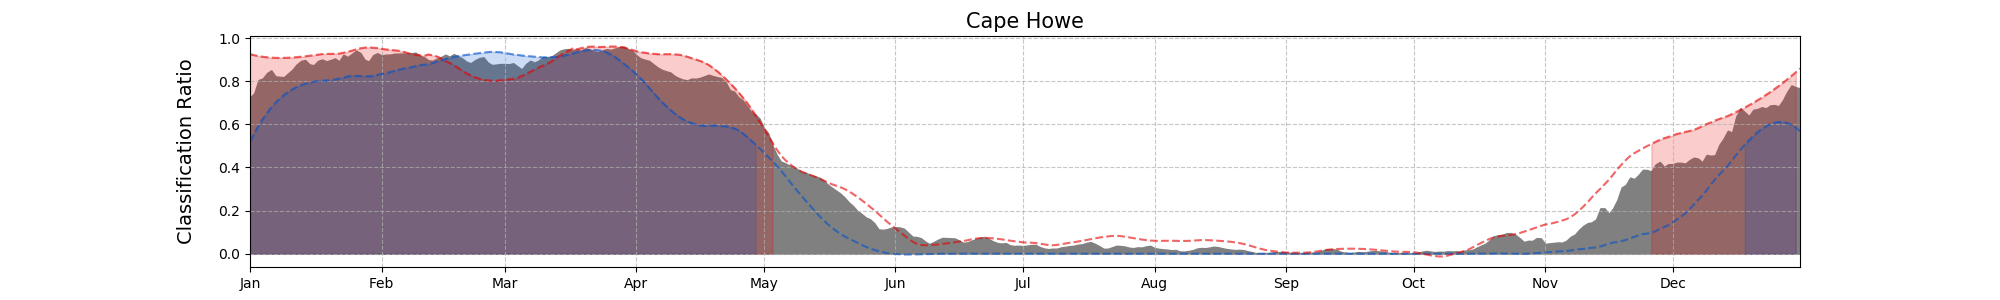
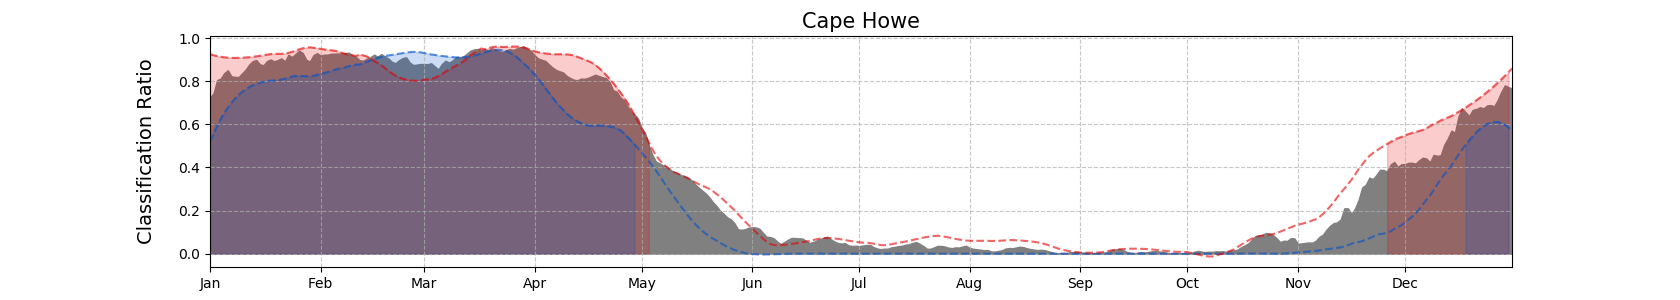
Added rstats for paper and chnaged temporal anaysis

diff --git a/data_visulisation.py b/data_visulisation.py
@@ -13,6 +13,7 @@ from netCDF4 import Dataset
 from scipy import stats
 import seaborn as sns
 from scipy.signal import savgol_filter
+from sklearn.linear_model import LinearRegression
 
 # Hack to fix missing PROJ4 env var for basemap
 import os
@@ -209,6 +210,9 @@ def seasonal_change_analysis(df, title, out_fn):
 # Analyse change in the monthly mean of current influence #
 ###########################################################
 def temporal_analysis(df, title, out_fn):
+    """
+    Todo - modify text position so is not dependent on 1994
+    """
     # calculate ratios
     df['ratioA'] = [A/(A+B) for A, B in zip(df['countA'], df['countB'])]
     df['ratioB'] = [B/(A+B) for A, B in zip(df['countA'], df['countB'])]
@@ -220,40 +224,43 @@ def temporal_analysis(df, title, out_fn):
     # montly plot data
     df_month = df.groupby(['year', 'month']).mean().reset_index()
     df_month['xtime'] = [datetime(int(x[1]['year']), int(x[1]['month']), 1, 0, 0, 0) for x in df_month.iterrows()]
-
     # yearly plot data
     df_year = df_month.groupby(['year']).mean().reset_index()
     df_year['xtime'] = [datetime(int(x[1]['year']), 1, 1, 0, 0, 0) for x in df_year.iterrows()]
+    df_year['std'] = df_month.groupby(['year'])['ratioA'].std().reset_index(drop=True)
+    # drop incomplete years
+    year_months = df_month.year.value_counts()
+    incomplete_years = year_months[year_months < 12].index[0]
+    df_year = df_year[df_year.year != incomplete_years]
+
+    # set x axis index
+    x = list(range(0,len(df_month.xtime)))
+    x = [i/12 + df_month.xtime.iloc[0].year for i in x]
+    df_month['x'] = x
+    df_year['x'] = df_year['year']
+
     # get regression paramaters
     slope, intercept, r_value, p_value, std_err = stats.linregress(range(0,len(df_year['ratioA'])),df_year['ratioA'])
+
+    # colors
+    blue = '#0052cc'
 
     # __Monthly_plot__
     fig, ax = plt.subplots(figsize=(20, 3))
     plt.grid(ls='dashed', alpha=0.7)
-    x = list(range(0,len(df_month.xtime)))
-    x = [i/12 + df_month.xtime.iloc[0].year for i in x]
-    df_month['x'] = x
-    ax.stackplot(list(df_month['x']), list(df_month['ratioA']), color='#808080')
+    ax.stackplot(list(df_month['x']), list(df_month['ratioA']), color='#bfbfbf')
     ax.set(xticks=list(range(df_month.xtime.iloc[0].year, df_month.xtime.iloc[-1].year+1, 2)))
     ax.set_xlim(df_month.xtime.iloc[0].year, df_month.xtime.iloc[-1].year+1)
+    # add regression
+    ax = sns.regplot(x='x', y="ratioA", data=df_year, color='#4d4d4d', line_kws={'alpha':0.6}, scatter_kws={'alpha':0}, ci=95, truncate=True)
+    # add regression formula
+    plt.text(1994.4, 0.2, 'y = '+str(round(slope, 3))+'*x + '+str(round(intercept, 2)))
+    plt.text(1994.4, 0.1, 'R = '+str(round(r_value, 2)))
+    # labels
     plt.ylabel('Classification Ratio', labelpad=16, size=14)
-    plt.show()
-    fig.savefig(out_fn+'_month.png')
-    plt.close("all")
-
-    # __yearly_means_plot__
-    fig, ax = plt.subplots(figsize=(20, 2))
-    ax.set(xticks=list(range(df_year.xtime.iloc[0].year,df_month.xtime.iloc[-1].year+1,2)))
-    ax.set_xlim(df_year.xtime.iloc[0].year, df_month.xtime.iloc[-1].year+1)
-    ax = sns.regplot(x='year', y="ratioA", data=df_year, color='b', line_kws={'alpha':0.4}, scatter_kws={'alpha':0}, ci=95, truncate=True)
-    ax.set_ylabel('Classification Ratio', labelpad=16, size=14)
-    plt.grid(ls='dashed', alpha=0.7)
-    plt.plot('year', 'ratioA', data=df_year, color='#606060', marker='+', alpha=1)
-    plt.yticks(np.arange(0.2, 0.8, step=0.2))
-    ax.set_ylim(0.1,0.9)
     plt.title(title, size=15)
     plt.show()
-    fig.savefig(out_fn+'_year.png')
+    fig.savefig(out_fn+'.png')
     plt.close("all")
 
     # report line_kws
@@ -261,9 +268,6 @@ def temporal_analysis(df, title, out_fn):
     print('Slope:'+str(slope))
     print('Intercept:'+str(intercept))
     print('R:'+str(r_value))
-
-    # merge plots
-    img_join(out_fn+'.png', [out_fn+'_year.png', out_fn+'_month.png'])
 
 #########################
 # Merge images together #
